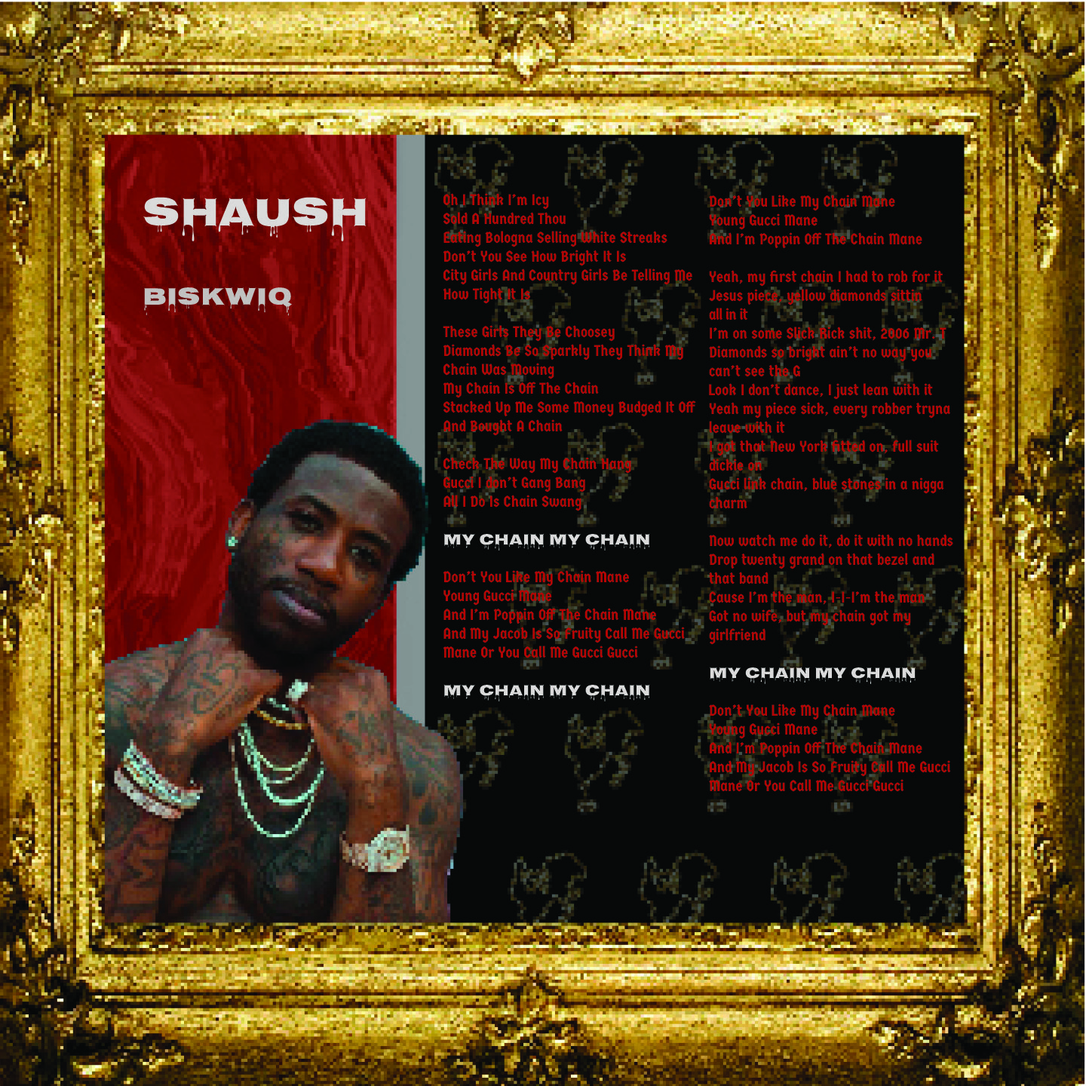
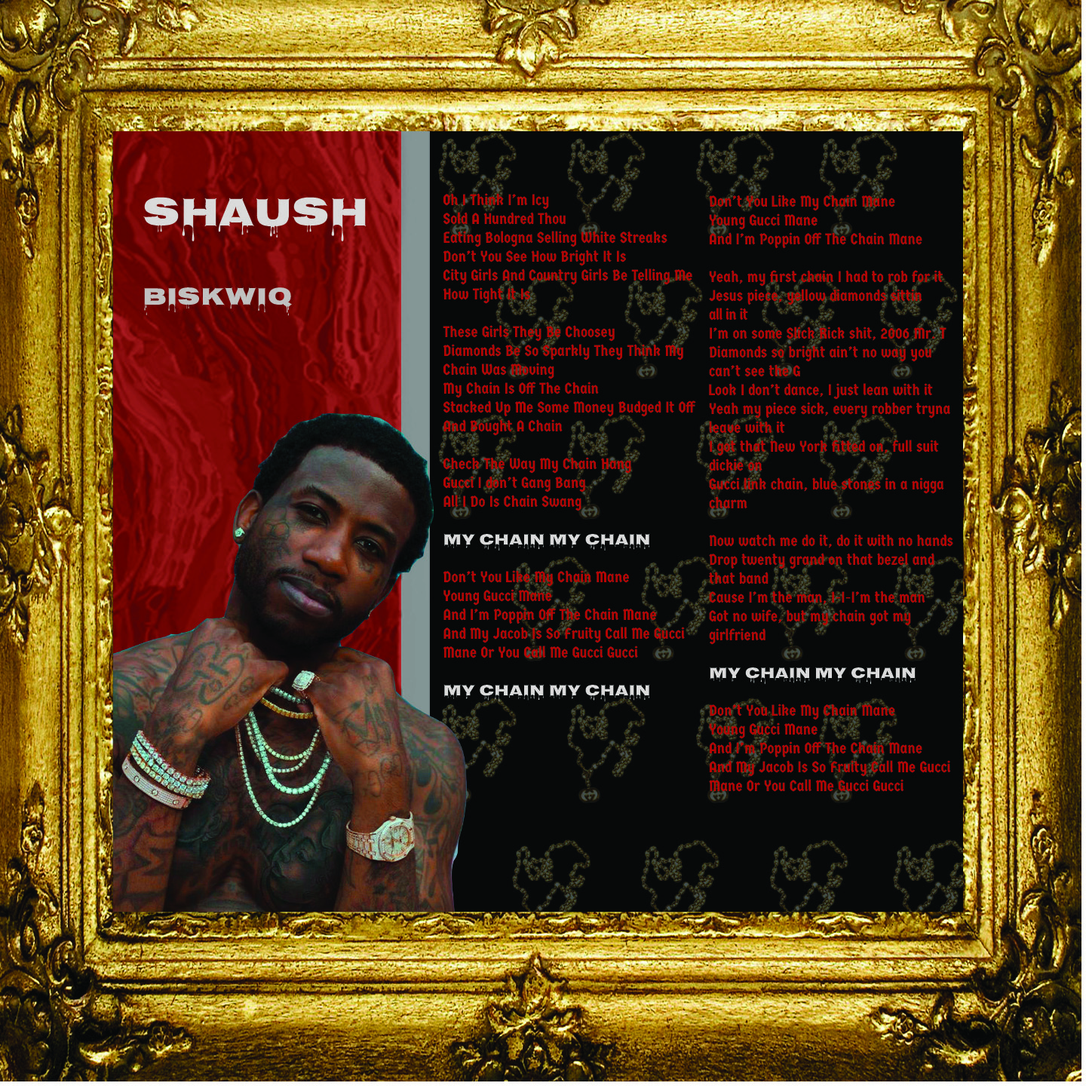
Add files via upload

diff --git a/lyrics/improvement-plan.html b/lyrics/improvement-plan.html
@@ -1,0 +1,22 @@
+<!DOCTYPE html>
+<html>
+	<head>
+		<title>Lyric Mockup</title>
+
+		
+		<style>
+			img{
+				max-width: 700px;
+			}
+</style>
+	</head>
+	<body>
+		<div>Mockup One<br><img src="mockup.jpg" alt="before"></div>
+		<div>Mockup Two<br><img src="mockup2.jpg" alt="after"></div><br>
+		Improvement Steps: <br>I need to solve my jpeg compression problem so that I can use the background image<br>
+		I need to improve the legibility of the body copy<br>
+		I need to work on the hierarchy of information and also add a gif<br>
+		I also think I need to clean up my photoshop image of gucci mane
+
+	</body>
+</html>
